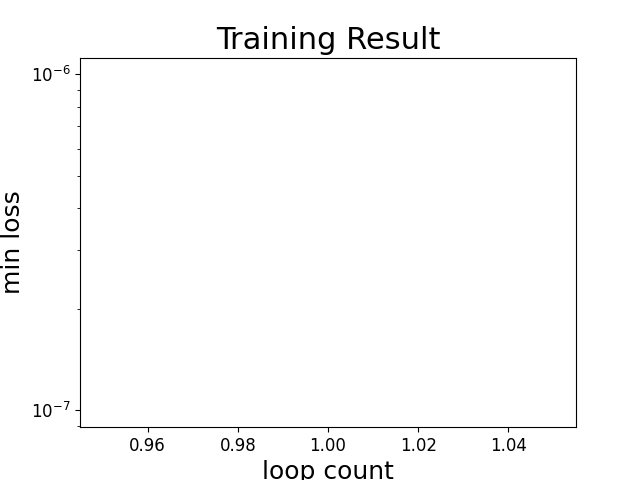
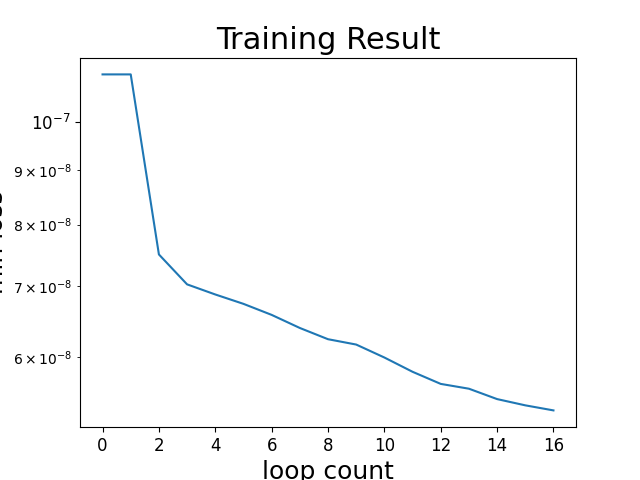
update serialization

diff --git a/GeneticAgent.py b/GeneticAgent.py
@@ -9,6 +9,7 @@ import multiprocessing as mp
 import math as ma
 import datetime as dt
 import os
+import pickle
 
 from calculateML import MutalInductance
 
@@ -84,6 +85,34 @@ class Coil():
             self.distributionInRealCoordinates = self.calculateDistributionInRealCoordinates()
         #
         self.loss = None
+
+
+    # for pickle
+    def __getstate__(self):
+        return {
+            'length': self.length,
+            'Z0': self.Z0,
+            'minRadius': self.minRadius,
+            'scWidth': self.scWidth,
+            'scThickness': self.scThickness,
+            'columnAmount': self.columnAmount,
+            'rowAmount': self.rowAmount,
+            'distribution': self.distribution.tolist(),
+            'distributionInRealCoordinates': self.distributionInRealCoordinates.tolist(),
+            'loss': self.loss
+        }
+
+    def __setstate__(self, state):
+        self.length = state['length']
+        self.Z0 = state['Z0']
+        self.minRadius = state['minRadius']
+        self.scWidth = state['scWidth']
+        self.scThickness = state['scThickness']
+        self.columnAmount = state['columnAmount']
+        self.rowAmount = state['rowAmount']
+        self.distribution = nu.array(state['distribution'])
+        self.distributionInRealCoordinates = nu.array(state['distributionInRealCoordinates'])
+        self.loss = state['loss']
 
 
     def calculateDistributionInRealCoordinates(self):
@@ -167,13 +196,19 @@ class GeneticAgent():
         self.survivalPerGeneration = 20
         self.descendantsPerLife = 8
         # init generation
-        coil = Coil()
-        if os.path.exists('bestCoil.npy'):
-            distribution = nu.load('bestCoil.npy')
-            coil.distribution = distribution
-            coil.distributionInRealCoordinates = coil.calculateDistributionInRealCoordinates()
-        for _ in range(self.survivalPerGeneration):
-            self.generation.append(coil)
+        if os.path.exists('lastGeneration.pickle'):
+            self.generation = pickle.load('lastGeneration.pickle')
+        else:
+            coil = Coil()
+            for _ in range(self.survivalPerGeneration):
+                self.generation.append(coil)
+        # coil = Coil()
+        # if os.path.exists('bestCoil.npy'):
+        #     distribution = nu.load('bestCoil.npy')
+        #     coil.distribution = distribution
+        #     coil.distributionInRealCoordinates = coil.calculateDistributionInRealCoordinates()
+        # for _ in range(self.survivalPerGeneration):
+        #     self.generation.append(coil)
 
 
     # http://ja.pymotw.com/2/multiprocessing/communication.html
@@ -186,7 +221,7 @@ class GeneticAgent():
             _start = dt.datetime.now()
             # calculate loss function for this generation and store in self.generationQueue
             # https://github.com/psf/black/issues/564
-            with mp.Pool(processes=min(mp.cpu_count()-1, 60)) as pool:
+            with mp.Pool(processes=min(mp.cpu_count()-1, 55)) as pool:
                 self.generation = pool.map(lossFunction, self.generation)
             print('loss function calculated.')
             # boom next generation
@@ -207,13 +242,15 @@ class GeneticAgent():
             pl.xlabel('loop count', fontsize=18)
             pl.ylabel('min loss', fontsize=18)
             pl.yscale('log')
-            pl.plot(minLoss)
+            pl.plot(minLosses)
             pl.tick_params(labelsize=12)
             fig.savefig('trainingResult.png')
             pl.close(fig)
-            # save coil, https://deepage.net/features/numpy-loadsave.html
-            nu.save('bestCoil.npy', survived[0].distribution)
-            nu.save('minLosses.npy', nu.array(minLoss))
+            # save coil
+            pickle.dump(survived, 'lastGeneration.pickle')
+            # https://deepage.net/features/numpy-loadsave.html
+            # nu.save('lastGeneration.npy', survived[0].distribution)
+            nu.save('minLosses.npy', nu.array(minLosses))
 
 
 # Main
